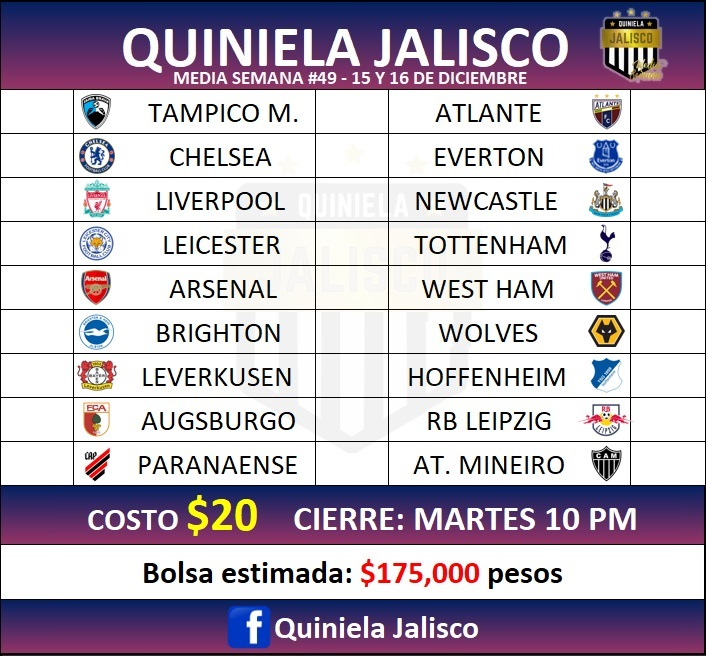
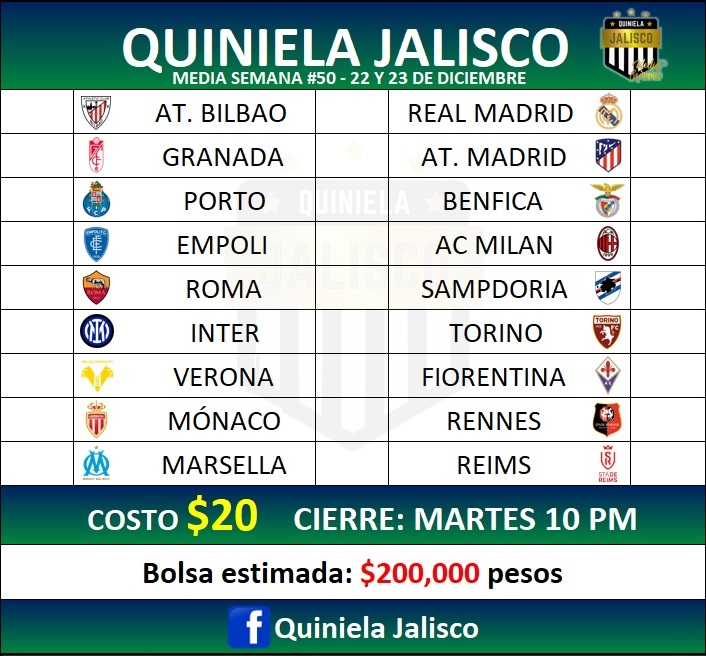
Media Semana #50

diff --git a/MediaSemana/stylesm.css b/MediaSemana/stylesm.css
@@ -89,8 +89,8 @@ h1{
     margin-top: 8%;
     border: solid 1px black;
     border-radius: 0 0 14px 14px;
-    background: -webkit-linear-gradient(0.5turn, rgb(143,51,100)  ,rgb(8,32,96) 80%);
-    background: linear-gradient(0.5turn, rgb(143,51,100)  ,rgb(8,32,96) 80%);
+    background: -webkit-linear-gradient(0.5turn, rgb(14,123,68)  ,rgb(0,36,92) 80%);
+    background: linear-gradient(0.5turn, rgb(14,123,68)  ,rgb(0,36,92) 80%);
     font-size: x-large;
     text-shadow: 3px 3px 3px black;
 }
